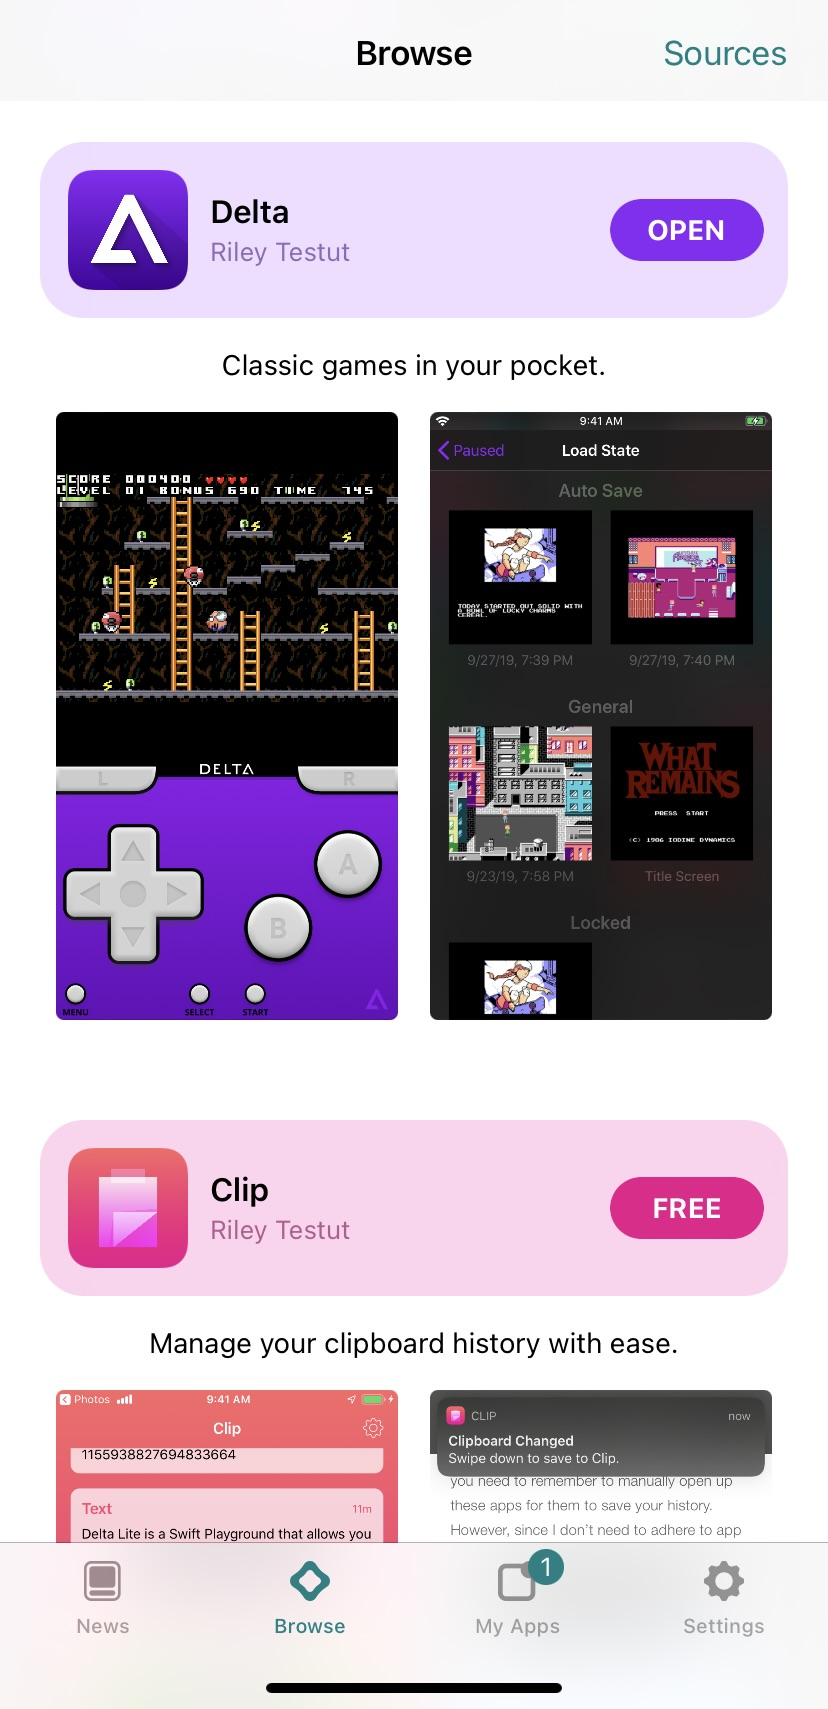
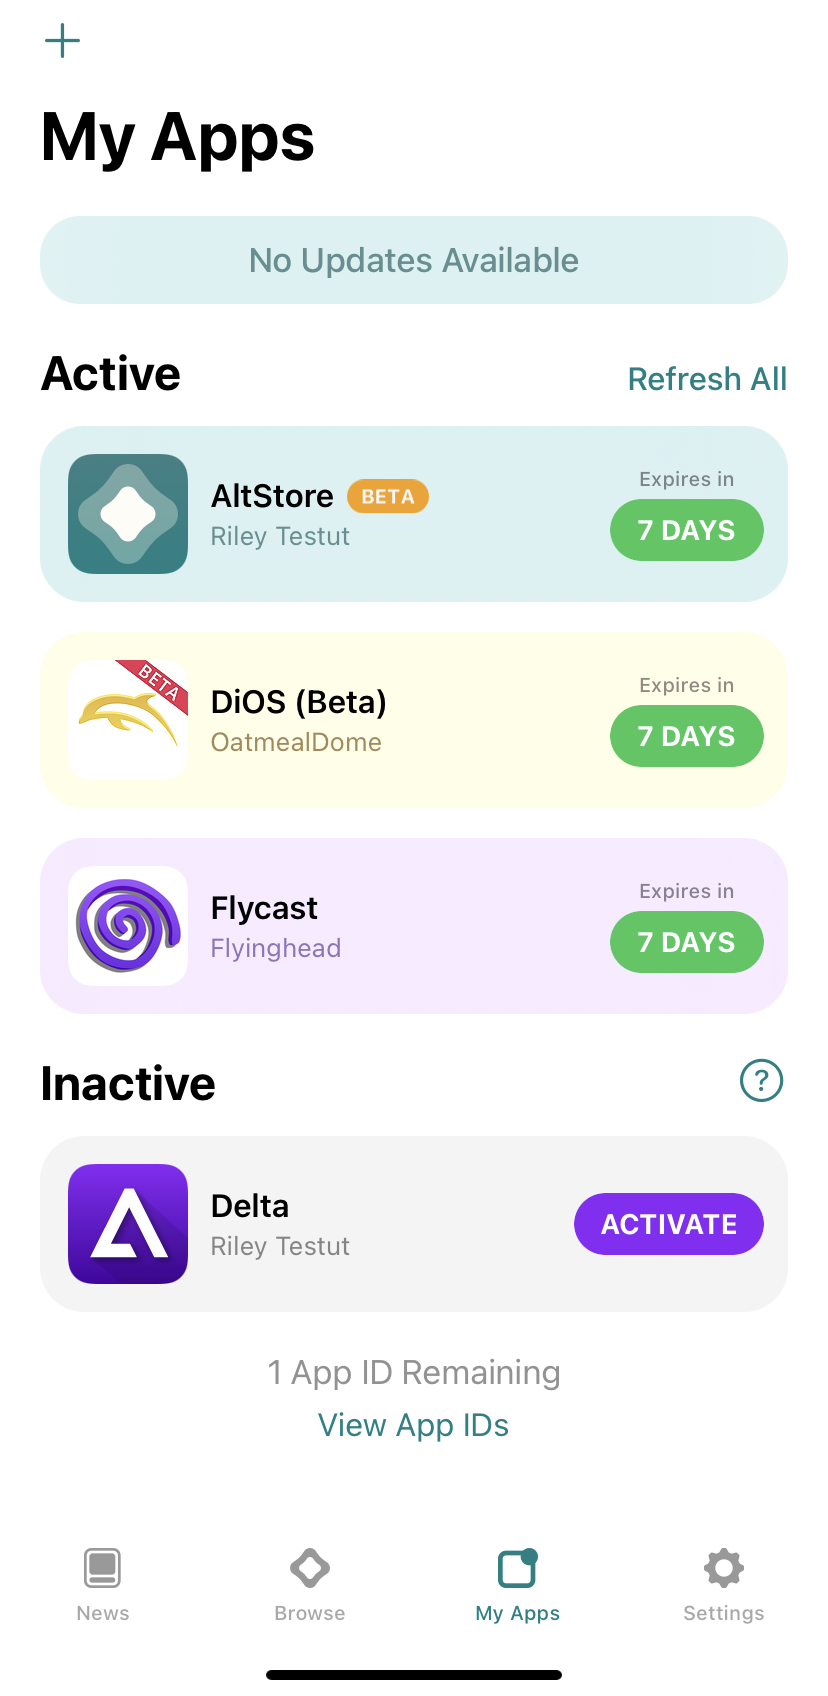
GitBook: [#7] No subject

diff --git a/how_to_use_altstore/altstore.md b/how_to_use_altstore/altstore.md
@@ -19,7 +19,16 @@ description: >-
 
 アプリをタップして、アプリの説明やスクリーンショットを含む詳細ページを表示したり、<mark style="background-color:red;">FREE</mark>のボタンをタップすることでインストールを行うこともできます。
 
+![](<../.gitbook/assets/image (1) (1).png>)
+
+
+
+### My Apps
+
+"My Apps"タブでは、AltStoreを利用してインストールしたAppを確認することができます。
+
 ![](<../.gitbook/assets/image (1).png>)
 
+AltStoreを使用してインストールしたAppは、7日後に署名の期限が切れてしまうため起動できなくなります。そのため、AltStoreは署名が切れる前にバックグラウンドで更新を行い、この問題が発生しないようにしていますが、"Refresh All"を押して、いつでも手動で更新を行うこともできます。
 
-
+また、Appleの仕様により一度にインストール可能なサイドロードAppの数は3つに制限されています。これを回避するためにAltStoreを使用すると、サイドロードしたAppを「非アクティブ化」することができます。この操作を行うと、データのバックアップを行ったうえで、デバイスからAppをアンインストールし、別のApp用のスロットを開けることができます。また、アプリを再度「アクティブ化」し、インストールを行なった上で、以前のデータを復元することも可能です。Appの「アクティブ化」と「非アクティブ化」については、アプリのアクティブ化ページを参照してください。
